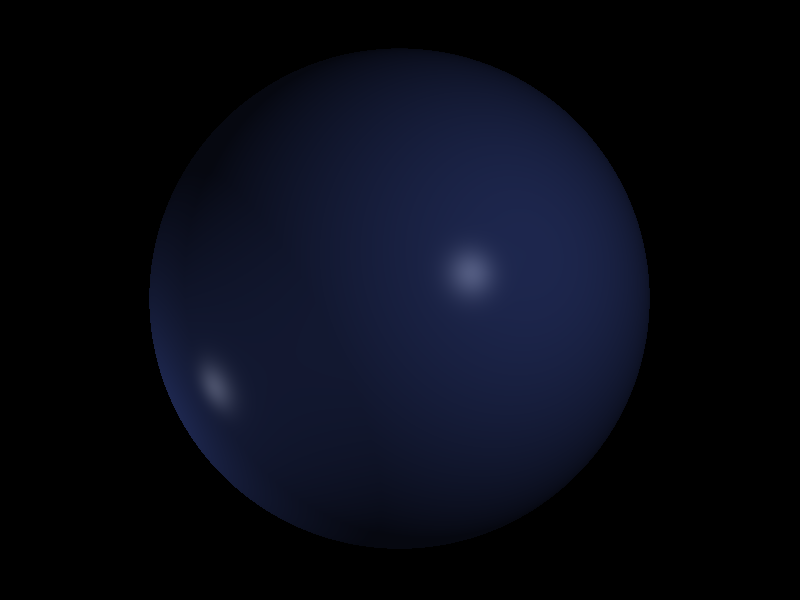
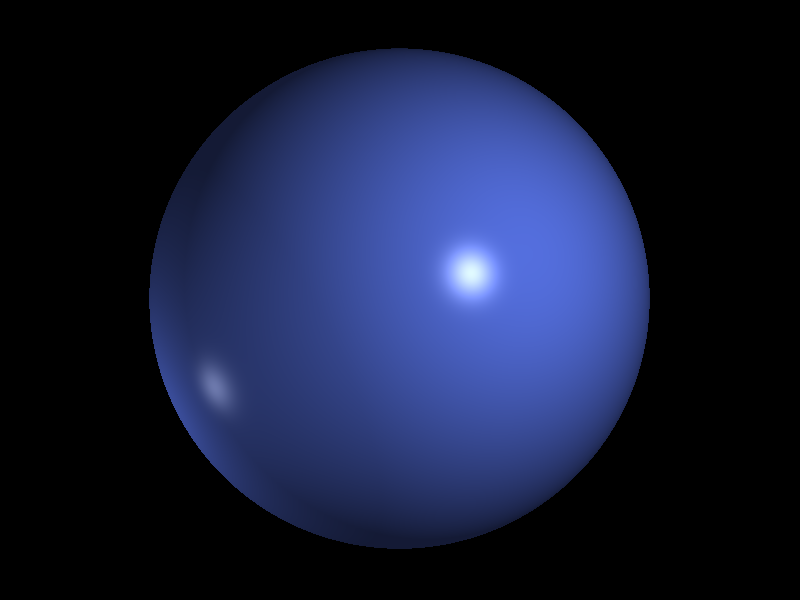
Vis implementado

diff --git a/java/src/raytracer/Raytracer.java b/java/src/raytracer/Raytracer.java
@@ -126,8 +126,12 @@ public class Raytracer {
                 // será usada tanto para a componente difusa quanto especular
                 // (~8 linhas)
 
-                Vector3 l = light.P_luz.diff(intersection.P).normalized();
-                Vector3 corDaLuzAtenuada = light.L_i.mult(1.0 / (light.a + light.b * l.norm() + light.c * l.norm() * l.norm()));
+                Vector3 lightVector = light.P_luz.diff(intersection.P);
+                double d = lightVector.norm();
+
+                Vector3 l = lightVector.normalized();
+
+                Vector3 corDaLuzAtenuada = light.L_i.mult(1.0 / (light.a + light.b * d + light.c * d * d));
                 Vector3 difusa = (corDaLuzAtenuada.mult(material.p_d)).cwMult(C).mult(Math.max(0, intersection.n.dot(l)));
                 CorP = CorP.add(difusa);
                 
@@ -165,7 +169,8 @@ public class Raytracer {
 
             Vector3 reflectedColor = castRay(scene, reflectedRay);
 
-            CorP = CorP.mult(1.0 - material.p_r).add(reflectedColor.mult(material.p_r));
+            //CorP = CorP.mult(1.0 - material.p_r).add(reflectedColor.mult(material.p_r));
+            CorP = CorP.add(reflectedColor.mult(material.p_r));
         }
 
         
@@ -210,14 +215,27 @@ public class Raytracer {
         // com o próprio objeto seja true, indicando que o próprio objeto está
         // obstruindo a luz de chegar nele, o que não deve acontecer.
         // (~10 linhas)
+        
+        Vector3 directionToLight = light.P_luz.diff(intersection.P);
+        double distanceToLight = directionToLight.norm();
+        
+        Ray shadowRay = new Ray(intersection.P.add(intersection.n.mult(Constants.TINY)), directionToLight.normalized());
 
+        for (Object obj : scene.objects) {
+
+            if (obj == objectHit) continue;
+
+            RayResponse response = obj.intersectsWith(shadowRay);
+
+            if (response.intersected) {
+                if (response.t > Constants.TINY && response.t < distanceToLight) {
+                    return false;
+                }
+            }
+        }
+         
         
-        
-        
-        
-        
-        
-        
+       
         // Está sempre retornando true, ou seja, sombras nunca são geradas...
         return true;
     }
